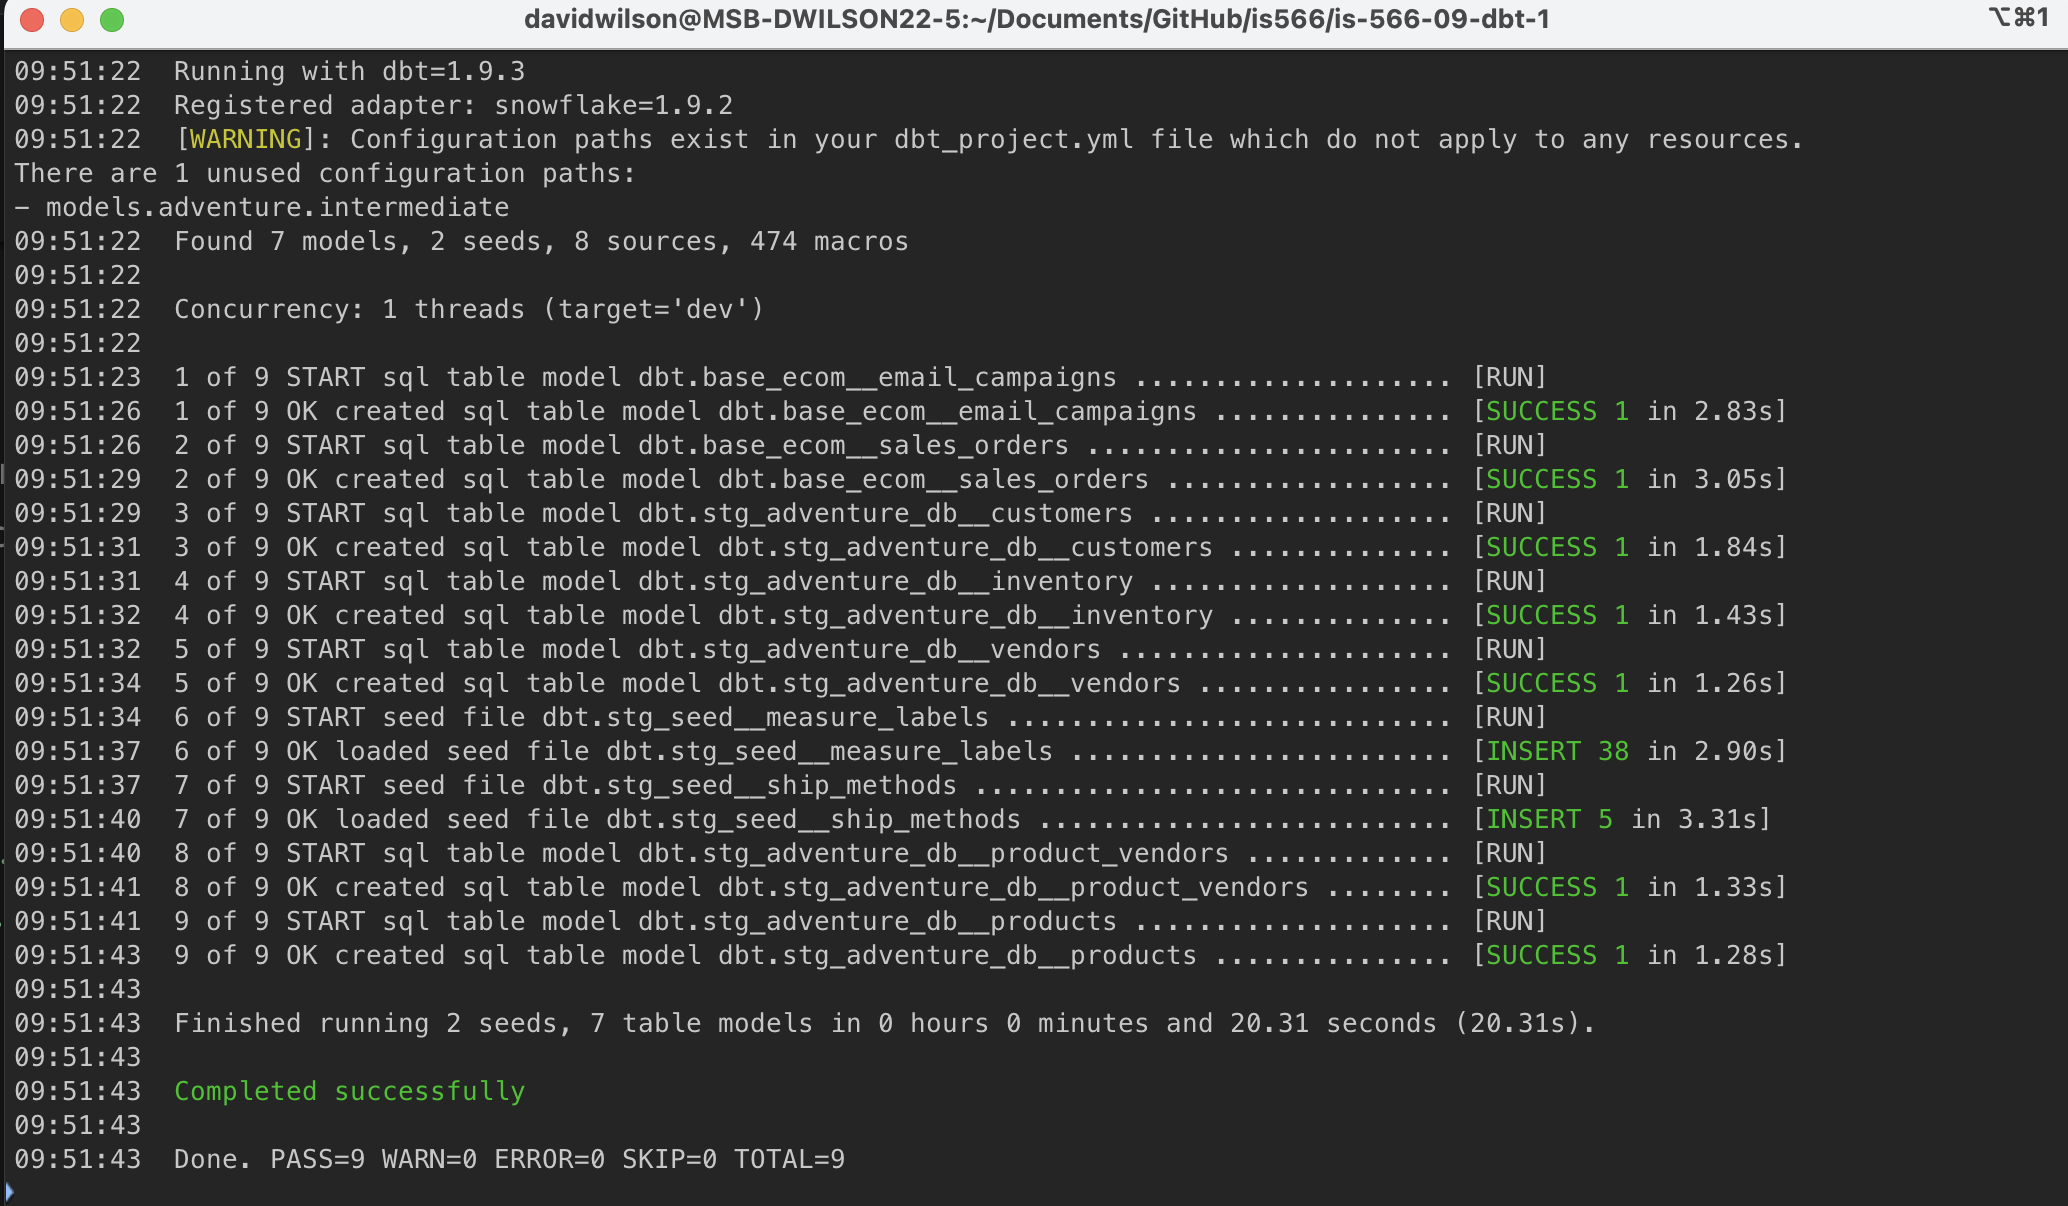
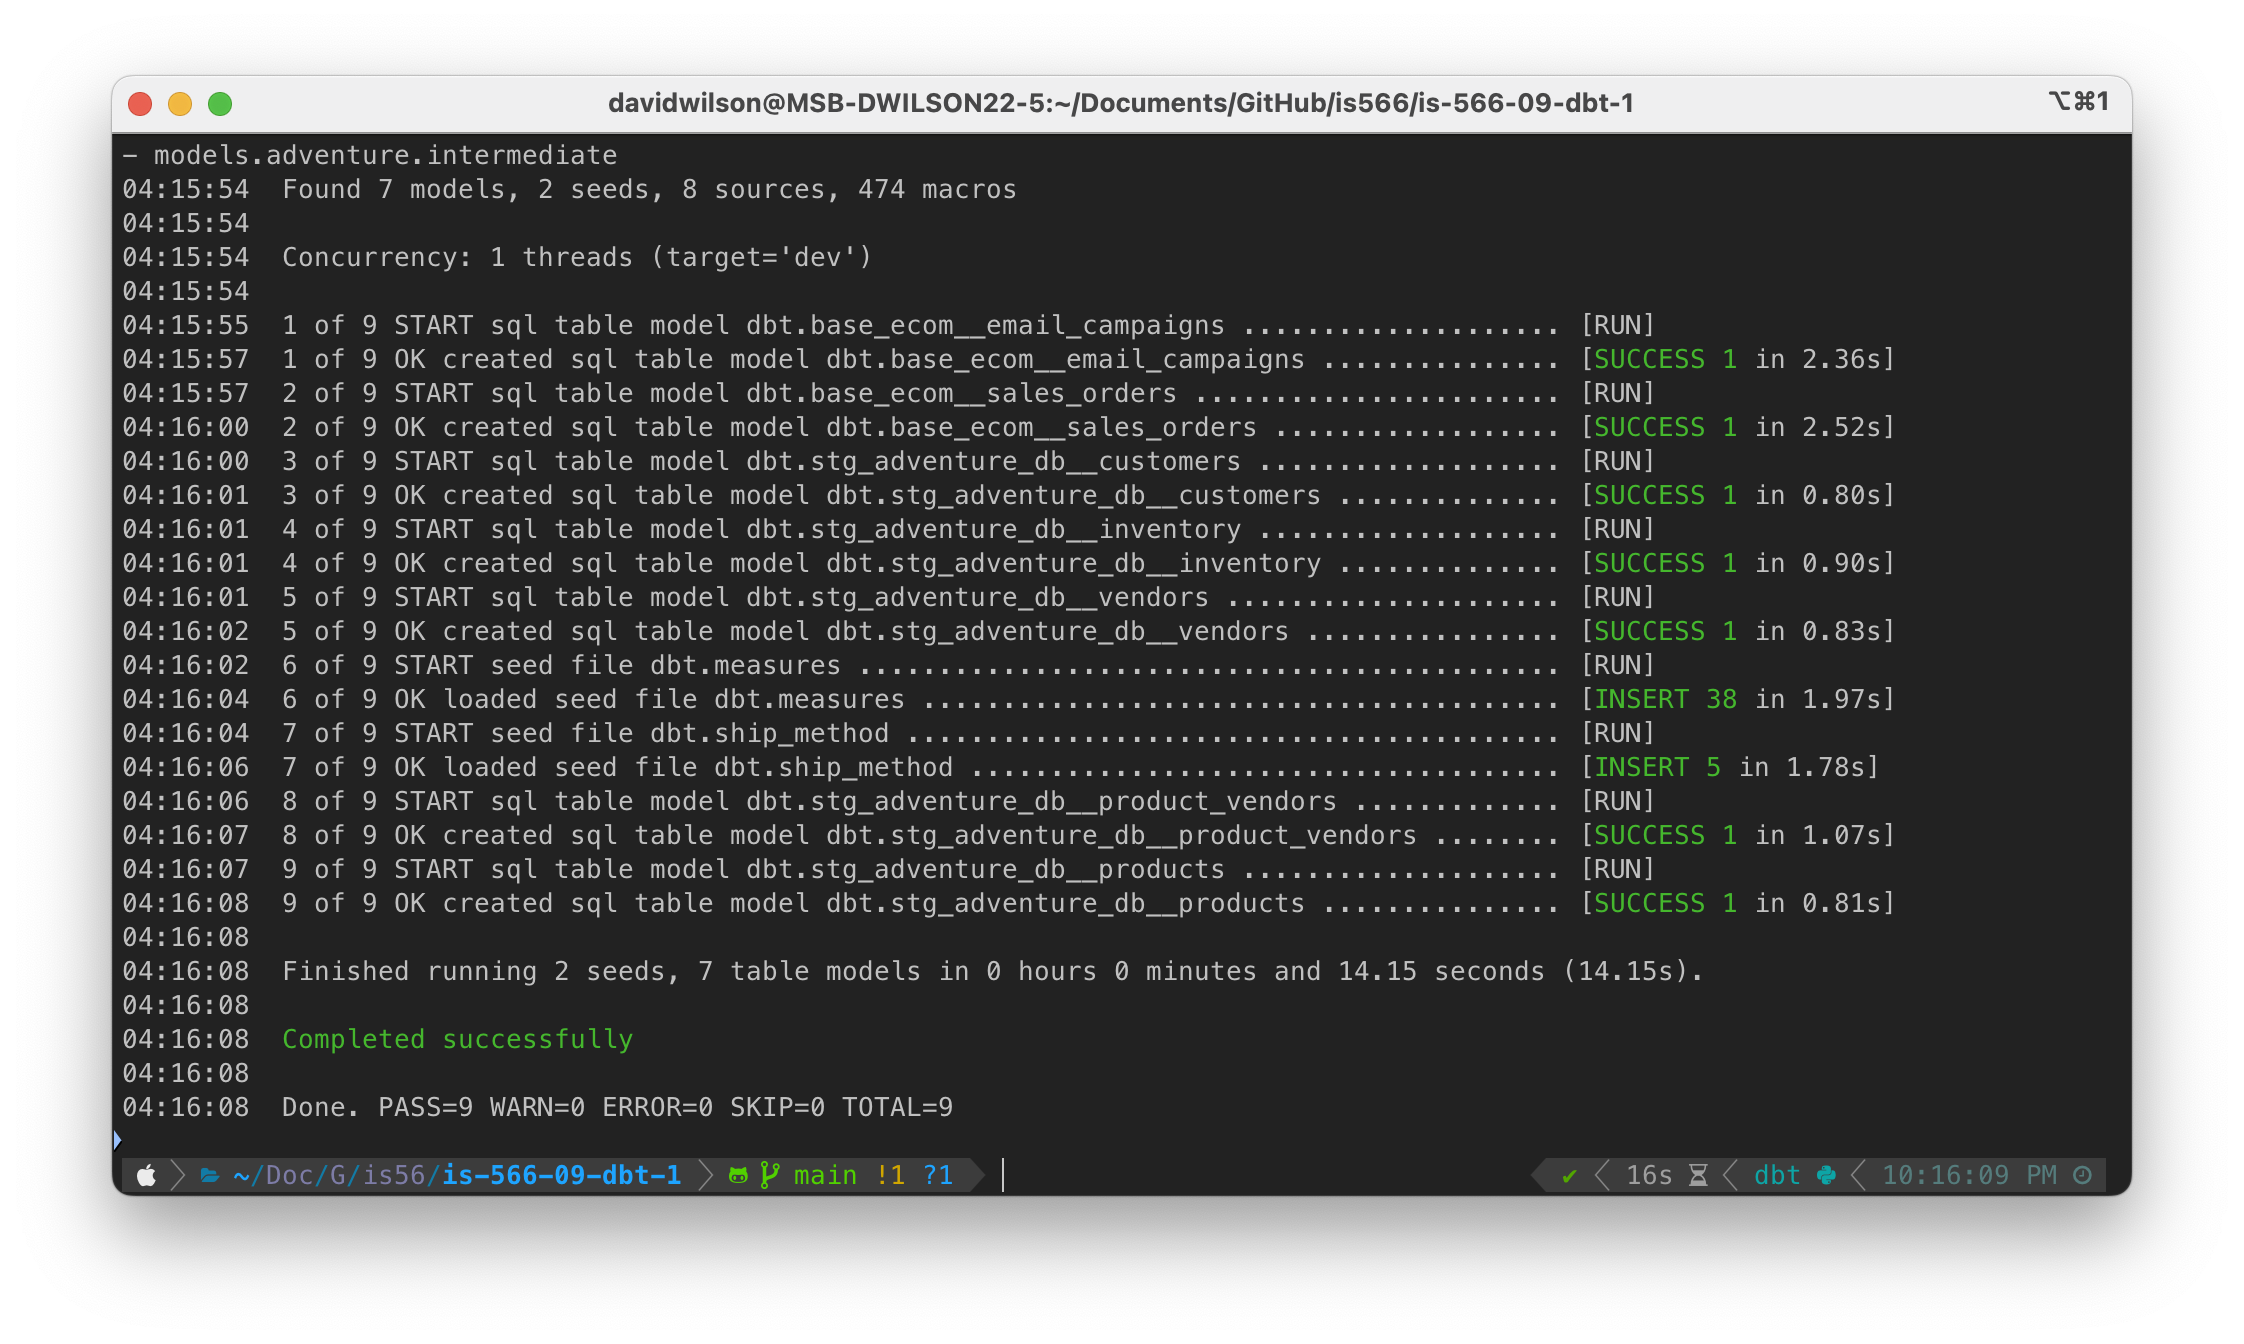
Updated images to reflect the changes I made to the seed config (a few commits back)

diff --git a/README.md b/README.md
@@ -181,7 +181,7 @@ seeds:
       ship_rate: NUMBER
 ```
 
-Now that your seeds are in and configured, you can run `dbt seed` (which will process and insert only the seed files) or `dbt build` (which will do the seed command along with everything else). You should see output like you see in my screenshot below. (And pay particular attention to the effect of that `alias` configuration option that we added to the `.yml` file; this has affected what the seed tables are called in the data warehouse.)
+Now that your seeds are in and configured, you can run `dbt seed` (which will process and insert only the seed files) or `dbt build` (which will do the seed command along with everything else). You should see output like you see in my screenshot below. 
 
 <img src="566/screenshots/readme_img/seed_run.png"  width="80%">
 
